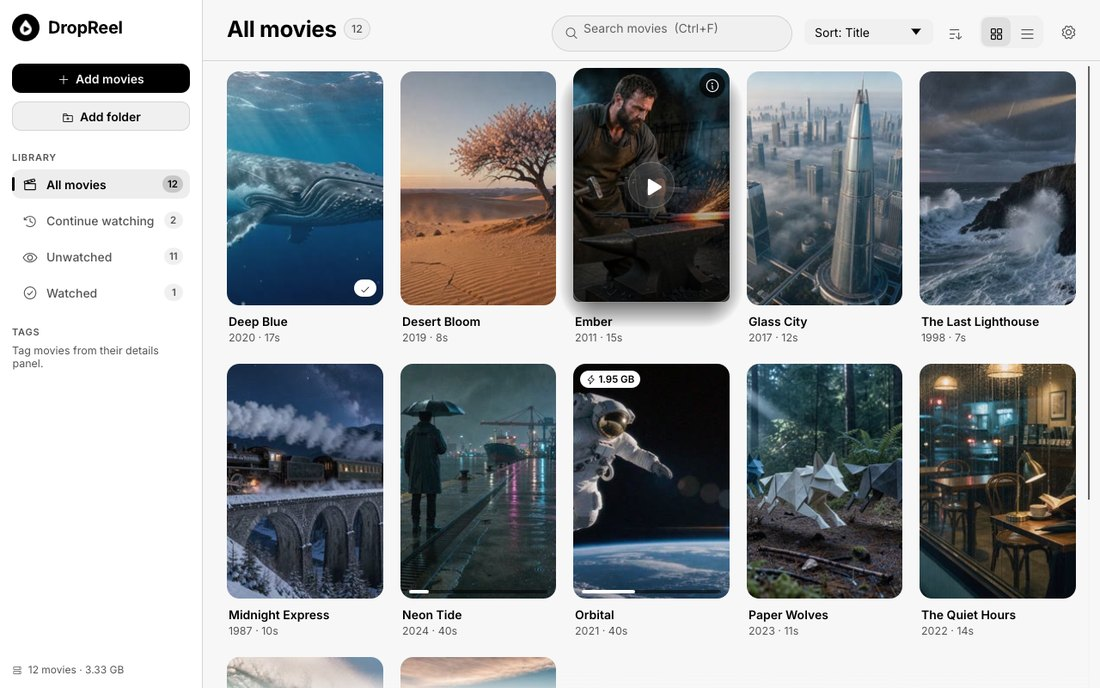
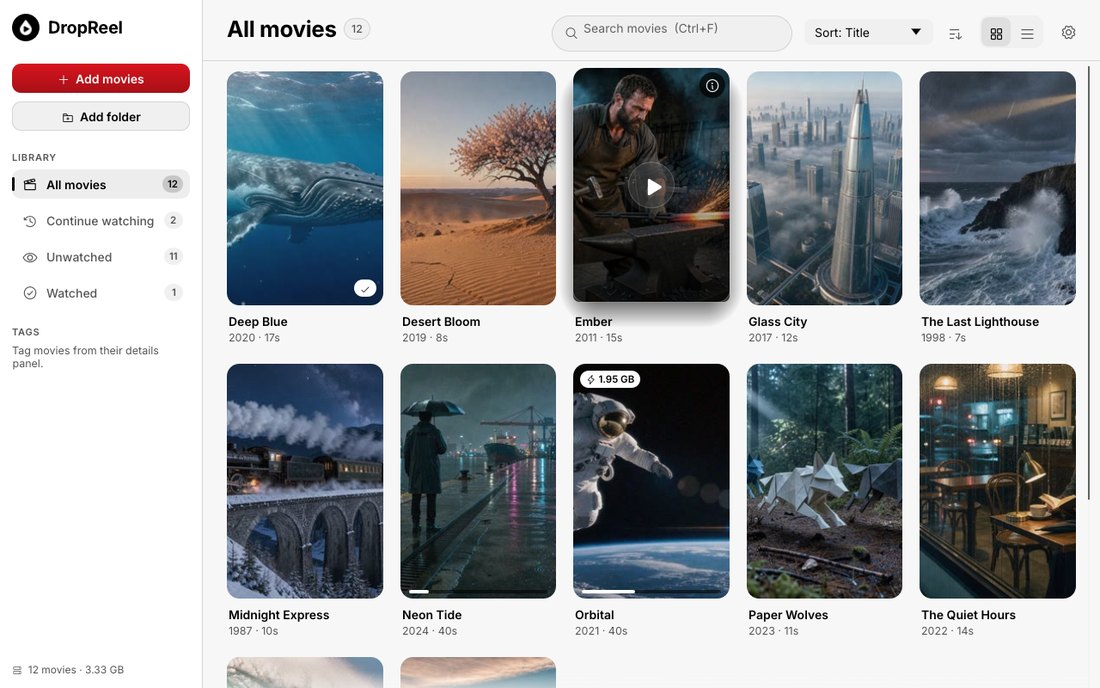
Red primary buttons
Primary buttons are now the deep Midnight red with white text and the
same sheen; hover brightens them to the vivid red. Destructive buttons
(Remove, Delete, Quit anyway) become red-outlined so they never look
like the primary action. Retook the affected README screenshots.

Claude-Session: https://claude.ai/code/session_014CcLC17rZd5My8K96q63uv

Changed region(s): [[0.0, 0.0916, 0.1855, 0.1526]]

diff --git a/src/app/widgets.rs b/src/app/widgets.rs
@@ -300,10 +300,12 @@ pub enum ButtonKind {
 
 fn kind_colors(p: &Palette, kind: ButtonKind) -> (Color32, Color32) {
     match kind {
-        ButtonKind::Primary => (p.text, p.bg),
+        // The deep red keeps white text readable on both themes.
+        ButtonKind::Primary => (theme::ramp::RED_DEEP, theme::ramp::WHITE),
         ButtonKind::Secondary => (p.raised, p.text),
         ButtonKind::Warn => (p.warn, p.bg),
-        ButtonKind::Danger => (p.danger, theme::ramp::WHITE),
+        // Outlined, so a destructive button never looks like the primary one.
+        ButtonKind::Danger => (Color32::TRANSPARENT, p.danger),
         ButtonKind::Ghost => (Color32::TRANSPARENT, p.text_weak),
     }
 }
@@ -344,8 +346,9 @@ pub fn button_sized(
     let bg = match kind {
         ButtonKind::Ghost => Color32::TRANSPARENT.lerp_to_gamma(p.hover, t),
         ButtonKind::Secondary => fill.lerp_to_gamma(p.hover, t),
-        ButtonKind::Primary => fill.lerp_to_gamma(p.text_weak, 0.3 * t),
-        _ => fill.lerp_to_gamma(theme::ramp::WHITE, 0.14 * t),
+        ButtonKind::Primary => fill.lerp_to_gamma(theme::ramp::RED, t),
+        ButtonKind::Danger => Color32::TRANSPARENT.lerp_to_gamma(p.danger.gamma_multiply(0.14), t),
+        ButtonKind::Warn => fill.lerp_to_gamma(theme::ramp::WHITE, 0.14 * t),
     };
     let (bg, fg_alpha) = if enabled {
         (bg, 1.0)
@@ -358,13 +361,14 @@ pub fn button_sized(
     } else {
         ui.painter().rect_filled(rect, radius, bg);
     }
-    if kind == ButtonKind::Secondary {
-        ui.painter().rect_stroke(
-            rect,
-            radius,
-            Stroke::new(1.0, p.border.gamma_multiply(1.0 - t)),
-            egui::StrokeKind::Inside,
-        );
+    let outline = match kind {
+        ButtonKind::Secondary => Some(Stroke::new(1.0, p.border.gamma_multiply(1.0 - t))),
+        ButtonKind::Danger => Some(Stroke::new(1.5, p.danger.gamma_multiply(fg_alpha))),
+        _ => None,
+    };
+    if let Some(stroke) = outline {
+        ui.painter()
+            .rect_stroke(rect, radius, stroke, egui::StrokeKind::Inside);
     }
     let pos = rect.center() - galley.size() / 2.0;
     ui.painter()
